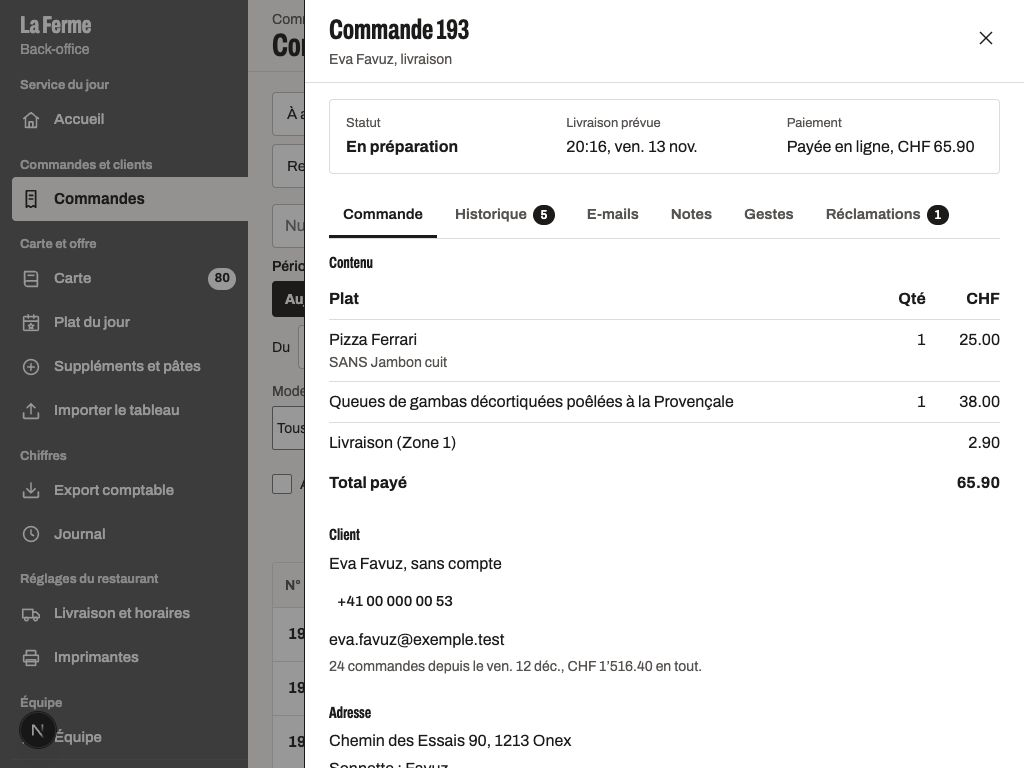
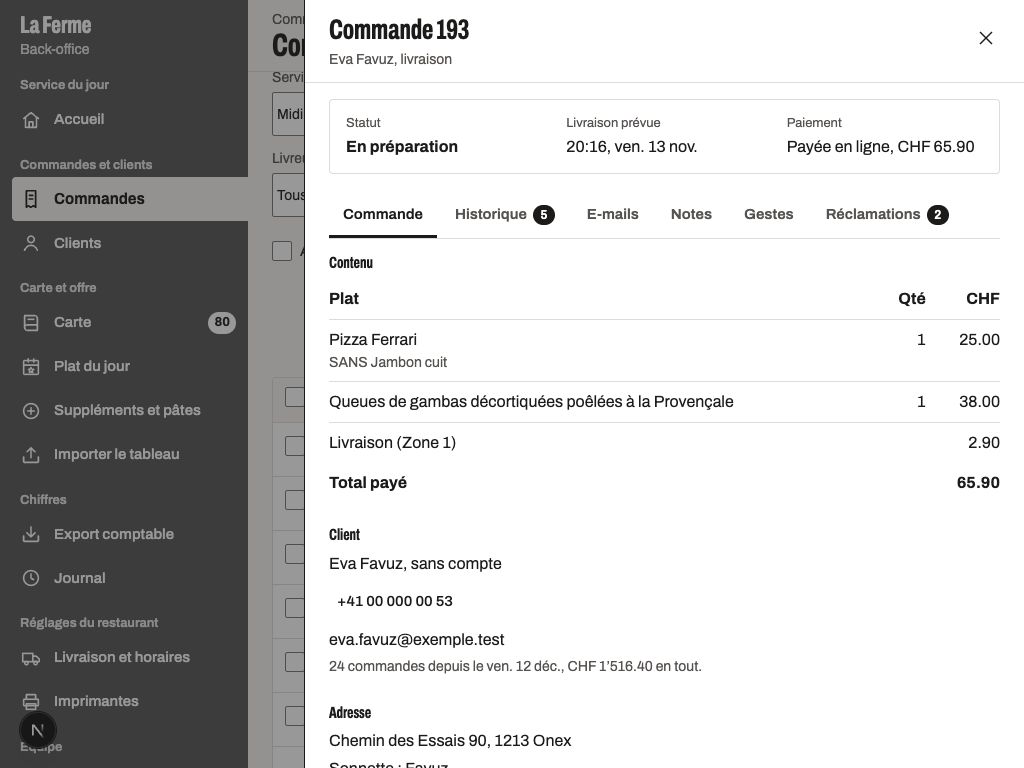
Commandes : filtres service, zone, livreur et montant à l'écran, repliés sur téléphone
Filtre service (midi avant 15h) et options_filtres_commandes() dans la migration 20261211110000 (pas encore
dans main).

diff --git a/src/components/gestion/commandes/ListeCommandes.tsx b/src/components/gestion/commandes/ListeCommandes.tsx
@@ -1,6 +1,6 @@
 "use client";
 
-import { useCallback, useState } from "react";
+import { useCallback, useEffect, useState } from "react";
 import { AnnulerLot } from "@/components/gestion/commandes/ActionsLot";
 import { FicheCommande } from "@/components/gestion/commandes/FicheCommande";
 import {
@@ -212,6 +212,11 @@ type Filtres = {
   remboursee: boolean;
   avec_note: boolean;
   avec_reclamation: boolean;
+  service: string;
+  zone: string;
+  livreur: string;
+  montant_min: string;
+  montant_max: string;
 };
 const SANS_FILTRE: Filtres = {
   mode: "",
@@ -221,6 +226,15 @@ const SANS_FILTRE: Filtres = {
   remboursee: false,
   avec_note: false,
   avec_reclamation: false,
+  service: "",
+  zone: "",
+  livreur: "",
+  montant_min: "",
+  montant_max: "",
+};
+type Options = {
+  zones: { numero: number; nom: string }[];
+  livreurs: { id: string; nom: string; actif: boolean }[];
 };
 
 export function ListeCommandes() {
@@ -242,6 +256,16 @@ export function ListeCommandes() {
   } | null>(null);
   useOuverture("commande", (id) => setOuverte({ id, titre: "Commande" }));
   const notifier = useNotifier();
+  // Zones et livreurs pour les listes de choix, lus une fois.
+  const [options, setOptions] = useState<Options>({ zones: [], livreurs: [] });
+  useEffect(() => {
+    poster("/api/gestion/commandes", { action: "options_filtres" }).then(
+      (r) => r.ok && setOptions(r.donnees as unknown as Options),
+    );
+  }, []);
+  // Les montants partent 500 ms après la dernière frappe (pas une requête par chiffre).
+  const montantMin = useDiffere(filtres.montant_min.trim(), 500);
+  const montantMax = useDiffere(filtres.montant_max.trim(), 500);
   const [annulerLot, setAnnulerLot] = useState<{
     lignes: LigneCommande[];
     vider: () => void;
@@ -259,12 +283,17 @@ export function ListeCommandes() {
       ...(filtres.remboursee ? { remboursee: true } : {}),
       ...(filtres.avec_note ? { avec_note: true } : {}),
       ...(filtres.avec_reclamation ? { avec_reclamation: true } : {}),
+      ...(filtres.service ? { service: filtres.service } : {}),
+      ...(filtres.zone ? { zone: Number(filtres.zone) } : {}),
+      ...(filtres.livreur ? { livreur: filtres.livreur } : {}),
+      ...(montantMin ? { montant_min: montantMin } : {}),
+      ...(montantMax ? { montant_max: montantMax } : {}),
       tri: triServeur(tri),
       page,
       par_page: PAR_PAGE,
       ...extra,
     }),
-    [q, periode, statuts, filtres, tri, page],
+    [q, periode, statuts, filtres, tri, page, montantMin, montantMax],
   );
 
   // Relecture du kit : la dernière demande gagne (PR #72), le minuteur ne double jamais une requête.
@@ -338,6 +367,16 @@ export function ListeCommandes() {
     charger();
   }
 
+  // Filtres repliés sur téléphone (ils repousseraient la liste d'un écran), ouverts sur grand écran.
+  const [filtresOuverts, setFiltresOuverts] = useState(true);
+  useEffect(() => {
+    if (window.matchMedia("(max-width: 767px)").matches)
+      setFiltresOuverts(false);
+  }, []);
+  const nbFiltres = Object.values(filtres).filter(
+    (v) => v !== "" && v !== false,
+  ).length;
+
   const compteurs = donnees?.compteurs ?? {};
   const filtresActifs =
     statuts.length > 0 || Object.entries(filtres).some(([, v]) => v);
@@ -408,81 +447,150 @@ export function ListeCommandes() {
                 />
               )}
             </div>
-            <div className="bo-filtres-ligne">
-              <label>
-                Mode
-                <select
-                  value={filtres.mode}
-                  onChange={(e) => filtrer("mode", e.target.value)}
-                >
-                  <option value="">Tous</option>
-                  <option value="livraison">Livraison</option>
-                  <option value="retrait">À emporter</option>
-                </select>
-              </label>
-              <label>
-                Paiement
-                <select
-                  value={filtres.paiement}
-                  onChange={(e) => filtrer("paiement", e.target.value)}
-                >
-                  <option value="">Tous</option>
-                  <option value="paye">Payée en ligne</option>
-                  <option value="a_encaisser_retrait">
-                    À encaisser au comptoir
-                  </option>
-                  <option value="encaisse">Payée au comptoir</option>
-                  <option value="rembourse">Remboursée</option>
-                </select>
-              </label>
-              <label className="bo-case">
-                <input
-                  type="checkbox"
-                  checked={filtres.en_retard}
-                  onChange={(e) => filtrer("en_retard", e.target.checked)}
-                />{" "}
-                En retard
-              </label>
-              <label className="bo-case">
-                <input
-                  type="checkbox"
-                  checked={filtres.remboursee}
-                  onChange={(e) => filtrer("remboursee", e.target.checked)}
-                />{" "}
-                Avec remboursement
-              </label>
-              <label className="bo-case">
-                <input
-                  type="checkbox"
-                  checked={filtres.avec_note}
-                  onChange={(e) => filtrer("avec_note", e.target.checked)}
-                />{" "}
-                Avec note
-              </label>
-              <label className="bo-case">
-                <input
-                  type="checkbox"
-                  checked={filtres.avec_reclamation}
-                  onChange={(e) =>
-                    filtrer("avec_reclamation", e.target.checked)
-                  }
-                />{" "}
-                Avec réclamation ouverte
-              </label>
-              {filtresActifs && (
-                <button
-                  type="button"
-                  className="bo-bouton bo-bouton-discret bo-bouton-petit"
-                  onClick={() => {
-                    setStatuts([]);
-                    setFiltres(SANS_FILTRE);
-                    setPage(1);
-                  }}
-                >
-                  Effacer les filtres
-                </button>
-              )}
-            </div>
+            <details
+              className="bo-filtres-plus"
+              open={filtresOuverts}
+              onToggle={(e) =>
+                setFiltresOuverts((e.target as HTMLDetailsElement).open)
+              }
+            >
+              <summary className="bo-bouton bo-bouton-second bo-bouton-petit">
+                Filtres{nbFiltres ? ` (${nbFiltres})` : ""}
+              </summary>
+              <div className="bo-filtres-ligne">
+                <label>
+                  Service
+                  <select
+                    value={filtres.service}
+                    onChange={(e) => filtrer("service", e.target.value)}
+                  >
+                    <option value="">Midi et soir</option>
+                    <option value="midi">Midi</option>
+                    <option value="soir">Soir</option>
+                  </select>
+                </label>
+                <label>
+                  Mode
+                  <select
+                    value={filtres.mode}
+                    onChange={(e) => filtrer("mode", e.target.value)}
+                  >
+                    <option value="">Tous</option>
+                    <option value="livraison">Livraison</option>
+                    <option value="retrait">À emporter</option>
+                  </select>
+                </label>
+                <label>
+                  Paiement
+                  <select
+                    value={filtres.paiement}
+                    onChange={(e) => filtrer("paiement", e.target.value)}
+                  >
+                    <option value="">Tous</option>
+                    <option value="paye">Payée en ligne</option>
+                    <option value="a_encaisser_retrait">
+                      À encaisser au comptoir
+                    </option>
+                    <option value="encaisse">Payée au comptoir</option>
+                    <option value="rembourse">Remboursée</option>
+                  </select>
+                </label>
+                <label>
+                  Zone
+                  <select
+                    value={filtres.zone}
+                    onChange={(e) => filtrer("zone", e.target.value)}
+                  >
+                    <option value="">Toutes</option>
+                    {options.zones.map((z) => (
+                      <option key={z.numero} value={String(z.numero)}>
+                        {z.nom}
+                      </option>
+                    ))}
+                  </select>
+                </label>
+                <label>
+                  Livreur
+                  <select
+                    value={filtres.livreur}
+                    onChange={(e) => filtrer("livreur", e.target.value)}
+                  >
+                    <option value="">Tous</option>
+                    {options.livreurs.map((l) => (
+                      <option key={l.id} value={l.id}>
+                        {l.nom}
+                        {l.actif ? "" : " (ancien)"}
+                      </option>
+                    ))}
+                  </select>
+                </label>
+                <label>
+                  Total dès (CHF)
+                  <input
+                    className="bo-filtre-montant"
+                    inputMode="decimal"
+                    value={filtres.montant_min}
+                    onChange={(e) => filtrer("montant_min", e.target.value)}
+                  />
+                </label>
+                <label>
+                  Total jusqu&apos;à (CHF)
+                  <input
+                    className="bo-filtre-montant"
+                    inputMode="decimal"
+                    value={filtres.montant_max}
+                    onChange={(e) => filtrer("montant_max", e.target.value)}
+                  />
+                </label>
+                <label className="bo-case">
+                  <input
+                    type="checkbox"
+                    checked={filtres.en_retard}
+                    onChange={(e) => filtrer("en_retard", e.target.checked)}
+                  />{" "}
+                  En retard
+                </label>
+                <label className="bo-case">
+                  <input
+                    type="checkbox"
+                    checked={filtres.remboursee}
+                    onChange={(e) => filtrer("remboursee", e.target.checked)}
+                  />{" "}
+                  Avec remboursement
+                </label>
+                <label className="bo-case">
+                  <input
+                    type="checkbox"
+                    checked={filtres.avec_note}
+                    onChange={(e) => filtrer("avec_note", e.target.checked)}
+                  />{" "}
+                  Avec note
+                </label>
+                <label className="bo-case">
+                  <input
+                    type="checkbox"
+                    checked={filtres.avec_reclamation}
+                    onChange={(e) =>
+                      filtrer("avec_reclamation", e.target.checked)
+                    }
+                  />{" "}
+                  Avec réclamation ouverte
+                </label>
+              </div>
+            </details>
+            {filtresActifs && (
+              <button
+                type="button"
+                className="bo-bouton bo-bouton-discret bo-bouton-petit"
+                onClick={() => {
+                  setStatuts([]);
+                  setFiltres(SANS_FILTRE);
+                  setPage(1);
+                }}
+              >
+                Effacer les filtres
+              </button>
+            )}
           </div>
         }
         onOuvrir={(l) =>

diff --git a/tests/unit/bo-commandes-sql.test.ts b/tests/unit/bo-commandes-sql.test.ts
@@ -198,6 +198,21 @@ describe("liste : réclamations ouvertes", () => {
   });
 });
 
+describe("liste : service et listes de choix", () => {
+  it("midi avant 15h à Genève, soir ensuite ; zones et livreurs pour les filtres", async () => {
+    // L'heure de création vient de la valeur par défaut de la table (horloge réelle) : on la pose à la main.
+    const midi = await commande();
+    const soir = await commande();
+    await db.query("update commandes set cree_le = '2026-11-17T10:30:00Z' where id = $1", [midi]); // 11h30 à Genève
+    await db.query("update commandes set cree_le = '2026-11-17T18:00:00Z' where id = $1", [soir]); // 19h00
+    expect((await liste({ service: "midi" })).lignes.map((l) => l.id)).toEqual([midi]);
+    expect((await liste({ service: "soir" })).lignes.map((l) => l.id)).toEqual([soir]);
+    const o = await f<{ zones: { numero: number }[]; livreurs: { nom: string }[] }>("options_filtres_commandes()");
+    expect(o.zones.length).toBeGreaterThan(0);
+    expect(o.livreurs.map((l) => l.nom)).toContain("Marco");
+  });
+});
+
 describe("fiche complète d'une commande", () => {
   it("rassemble chronologie, e-mails, livreur, tickets, notes et l'historique du client", async () => {
     const ancienne = await commande({ mode: "livraison", email: "fidele@laferme.test", total: 3000 });

diff --git a/src/components/gestion/commandes/commandes.css b/src/components/gestion/commandes/commandes.css
@@ -74,3 +74,7 @@
 .bo-fiche-form legend { font-weight: 600; margin-bottom: 4px; }
 .bo-fiche-deux { display: grid; grid-template-columns: repeat(auto-fit, minmax(min(100%, 200px), 1fr)); gap: 12px 16px; }
 .bo-fiche-boutons { display: flex; flex-wrap: wrap; gap: 8px; }
+.bo-filtre-montant { min-height: var(--bo-cible); width: 110px; font: inherit; }
+.bo-filtres-plus > summary { display: inline-flex; align-items: center; list-style: none; cursor: pointer; }
+.bo-filtres-plus > summary::-webkit-details-marker { display: none; }
+.bo-filtres-plus[open] > summary { margin-bottom: 12px; }

diff --git a/src/lib/gestion-commandes.ts b/src/lib/gestion-commandes.ts
@@ -44,6 +44,10 @@ export function filtresListe(c: Record<string, unknown>): Resultat<Record<string
     if (c.mode !== "livraison" && c.mode !== "retrait") return { ok: false, erreur: "Mode inconnu." };
     p.mode = c.mode;
   }
+  if (!vide(c.service)) {
+    if (c.service !== "midi" && c.service !== "soir") return { ok: false, erreur: "Service inconnu." };
+    p.service = c.service;
+  }
   if (!vide(c.moyen)) {
     if (c.moyen !== "en_ligne" && c.moyen !== "comptoir") return { ok: false, erreur: "Moyen de paiement inconnu." };
     p.moyen = c.moyen;

diff --git a/tests/unit/bo-commandes.test.ts b/tests/unit/bo-commandes.test.ts
@@ -49,6 +49,7 @@ describe("filtres de la liste", () => {
     expect(refus({ statuts: "acceptee" })).toBe("Statut inconnu.");
     expect(refus({ paiements: ["gratuit"] })).toMatch(/paiement inconnu/);
     expect(refus({ mode: "drone" })).toBe("Mode inconnu.");
+    expect(refus({ service: "nuit" })).toBe("Service inconnu.");
     expect(refus({ zone: "1; drop table commandes" })).toBe("Zone inconnue.");
     expect(refus({ zone: true })).toBe("Zone inconnue.");
     expect(refus({ page: true })).toBe("Page invalide.");

diff --git a/src/app/api/gestion/commandes/route.ts b/src/app/api/gestion/commandes/route.ts
@@ -30,6 +30,10 @@ export async function POST(requete: Request) {
   if (!c) return refus("Requête illisible.", 400);
   const sansCache = { headers: { "Cache-Control": "no-store" } };
 
+  if (c.action === "options_filtres") {
+    return NextResponse.json(await fonctionSql("options_filtres_commandes", {}), sansCache);
+  }
+
   if (c.action === "liste_page") {
     const f = filtresListe(c);
     if (!f.ok) return refus(f.erreur);

diff --git a/docs/mode-emploi.md b/docs/mode-emploi.md
@@ -113,7 +113,7 @@ Chaque rubrique a sa propre adresse, par exemple `/gestion/carte` ou `/gestion/c
 
 - En haut, une pastille par statut avec son nombre (À accepter, Acceptée, En préparation, Prête, Partie, Terminée, Refusée ou annulée). Toucher une pastille ne garde que ces commandes ; en toucher plusieurs les additionne.
 - Retrouver un client : écrire son nom, son téléphone (079…, +41 79… ou 0041 79…), son e-mail ou le numéro de la commande. La recherche couvre les 90 derniers jours.
-- Sans recherche, la liste montre la période choisie (Aujourd'hui au départ, ou des dates à venir pour les commandes à l'avance). Filtres : mode, paiement (par exemple « À encaisser au comptoir »), en retard, avec remboursement, avec note. « Effacer les filtres » remet tout.
+- Sans recherche, la liste montre la période choisie (Aujourd'hui au départ, ou des dates à venir pour les commandes à l'avance). « Filtres » (replié sur téléphone) : service (midi avant 15h, soir ensuite), mode, paiement (par exemple « À encaisser au comptoir »), zone, livreur, total entre deux montants, en retard, avec remboursement, avec note, avec réclamation ouverte. « Effacer les filtres » remet tout.
 - La liste du jour se met à jour toute seule toutes les 15 secondes. La colonne « Retard » dit de combien de minutes une commande dépasse l'heure promise (ou attend d'être acceptée).
 - « Avec réclamation ouverte » ne garde que les commandes dont une réclamation n'est pas close ; la colonne « Réclamations » en donne le nombre.
 - Plusieurs commandes à la fois : cocher les lignes (ou la case du haut pour toute la page). « Réimprimer » renvoie leurs tickets. « Annuler… » demande un seul motif, envoyé à chaque client, puis une confirmation ; les commandes payées en ligne sont remboursées en entier. Une commande qui a changé entre-temps n'est pas touchée et est nommée.

diff --git a/docs/back-office/commandes-clients.md b/docs/back-office/commandes-clients.md
@@ -38,3 +38,5 @@ Migration `supabase/migrations/20261127130000_reclamations.sql`, aucun objet par
 - `/gestion/clients` (`src/components/gestion/clients/`) : onglets « Clients » (liste, fiche, notes, marque désactivée) et « Réclamations » (liste, dossier, geste, clôture). Tests : `tests/e2e/gestion-clients.spec.ts`. Captures : `docs/rendus/vague-3/bo-commandes/clients-apres-*` et `reclamations-apres-*`.
 - Correctif `supabase/migrations/20261211100000_fiche_client_adresse.sql` : la fiche d'un client plantait si une de ses commandes à emporter avait une adresse en JSON null (commandes passées par le site).
 - Liste des commandes : filtre « avec réclamation ouverte » et colonne « Réclamations » (migration `20261211110000_liste_commandes_reclamations.sql`, qui recrée `liste_commandes_gestion`) ; gestes en lot « Réimprimer » et « Annuler… » (un motif, une confirmation, chaque commande par le même geste qu'une à une, `src/components/gestion/commandes/ActionsLot.tsx`).
+- Liste des commandes : filtres service (midi avant 15h à Genève, sur l'heure prévue ou l'heure de la commande), zone, livreur et montant à l'écran, repliés sous « Filtres » sur téléphone ; `options_filtres_commandes()` (action `options_filtres`) donne zones et livreurs.
+
